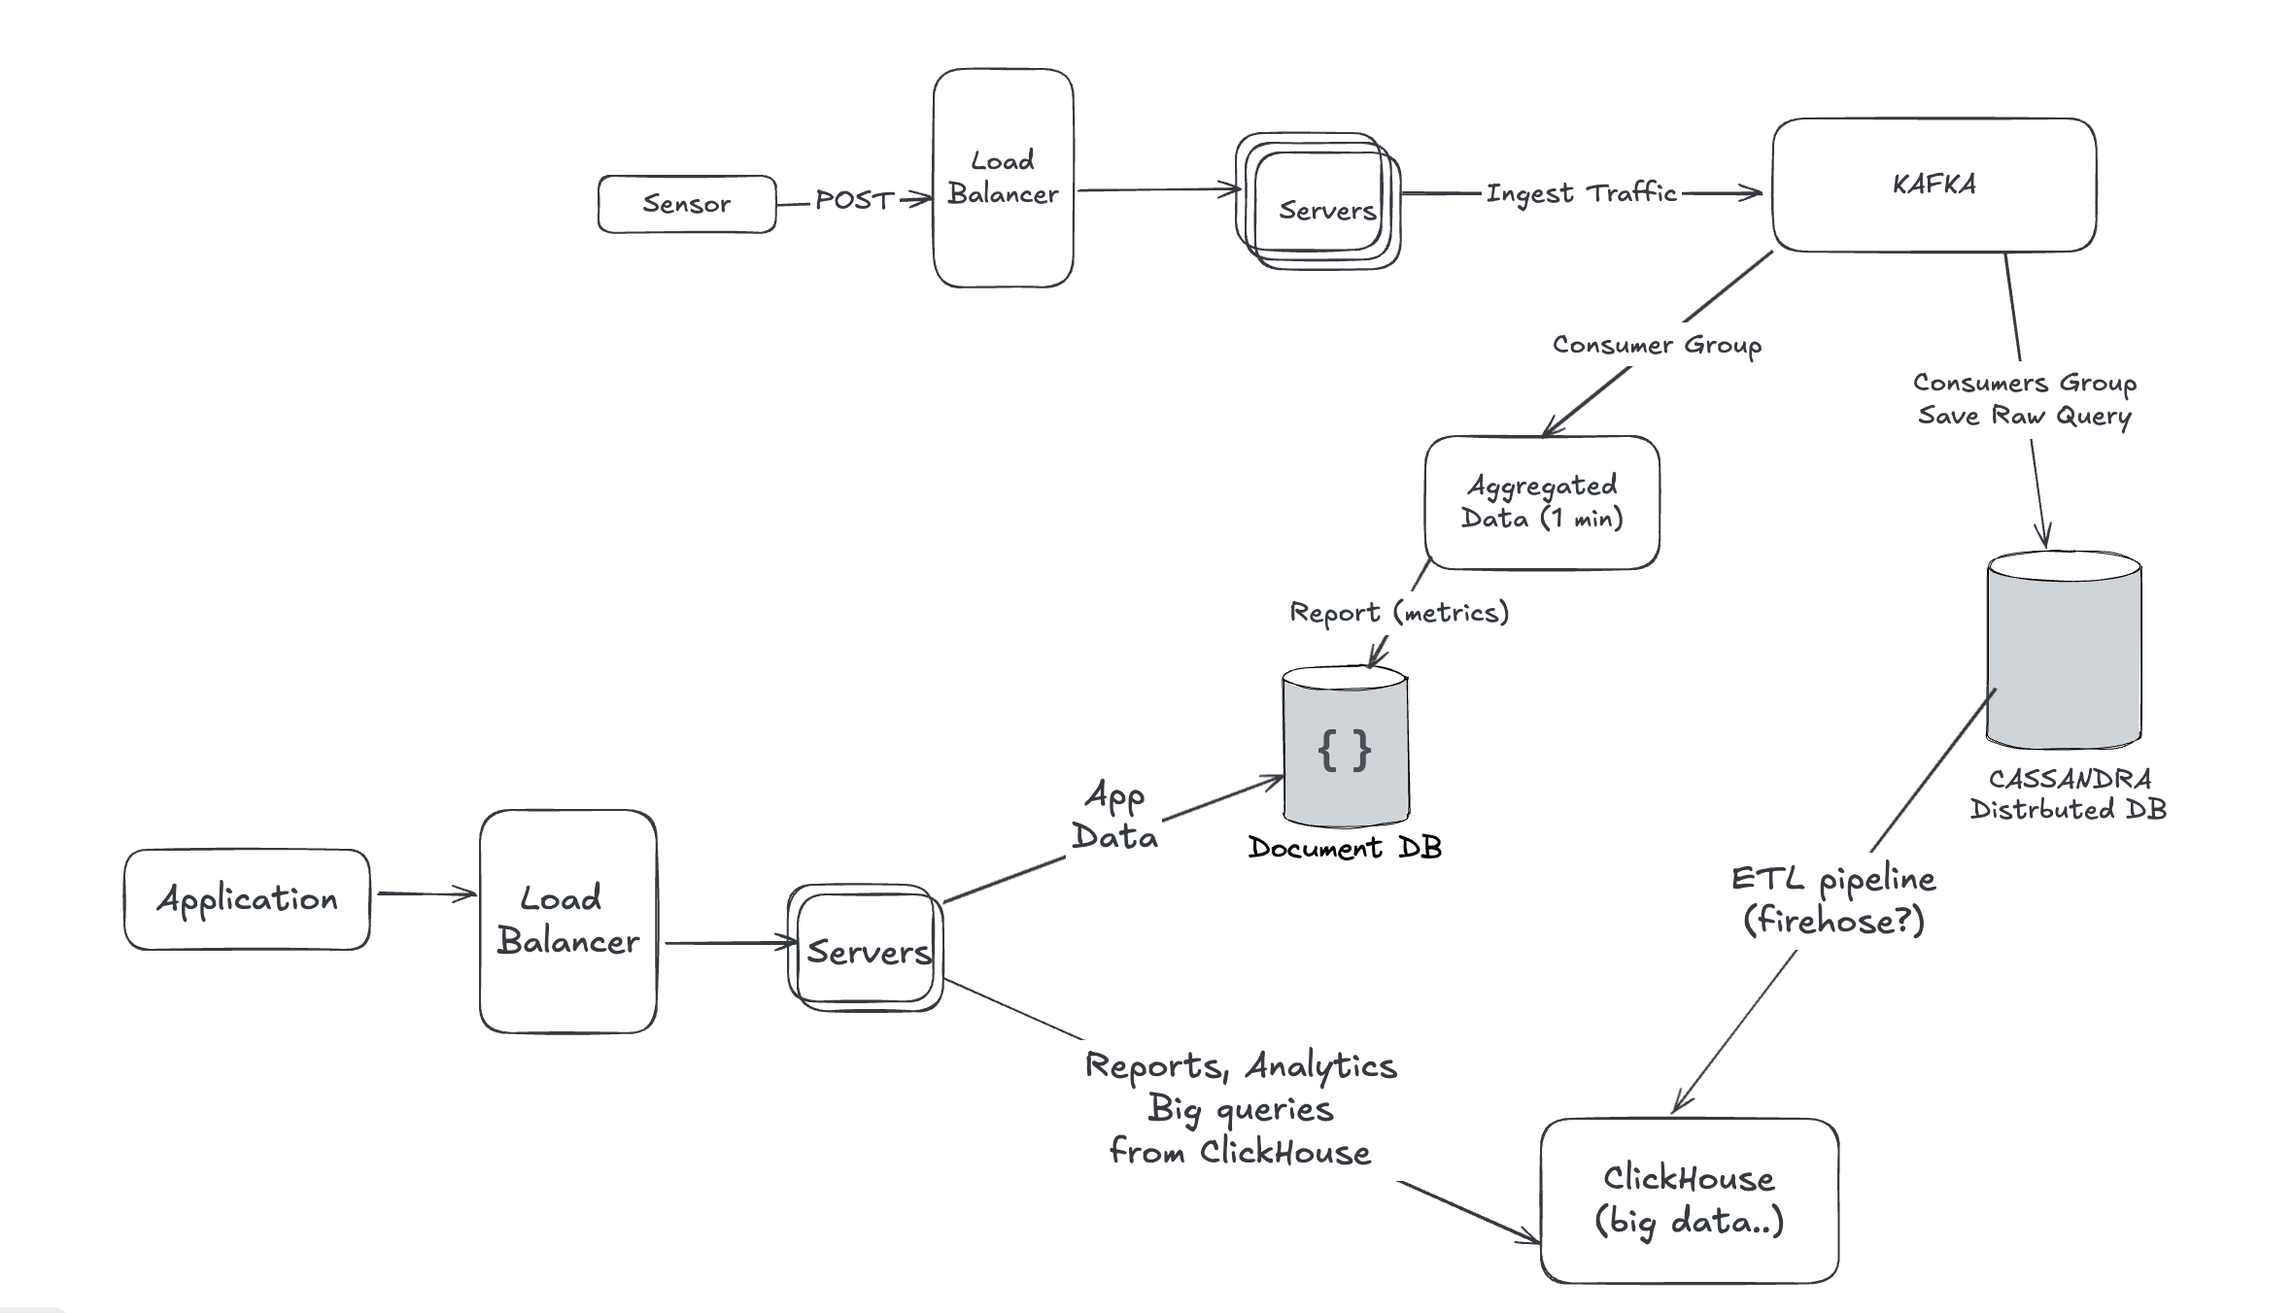
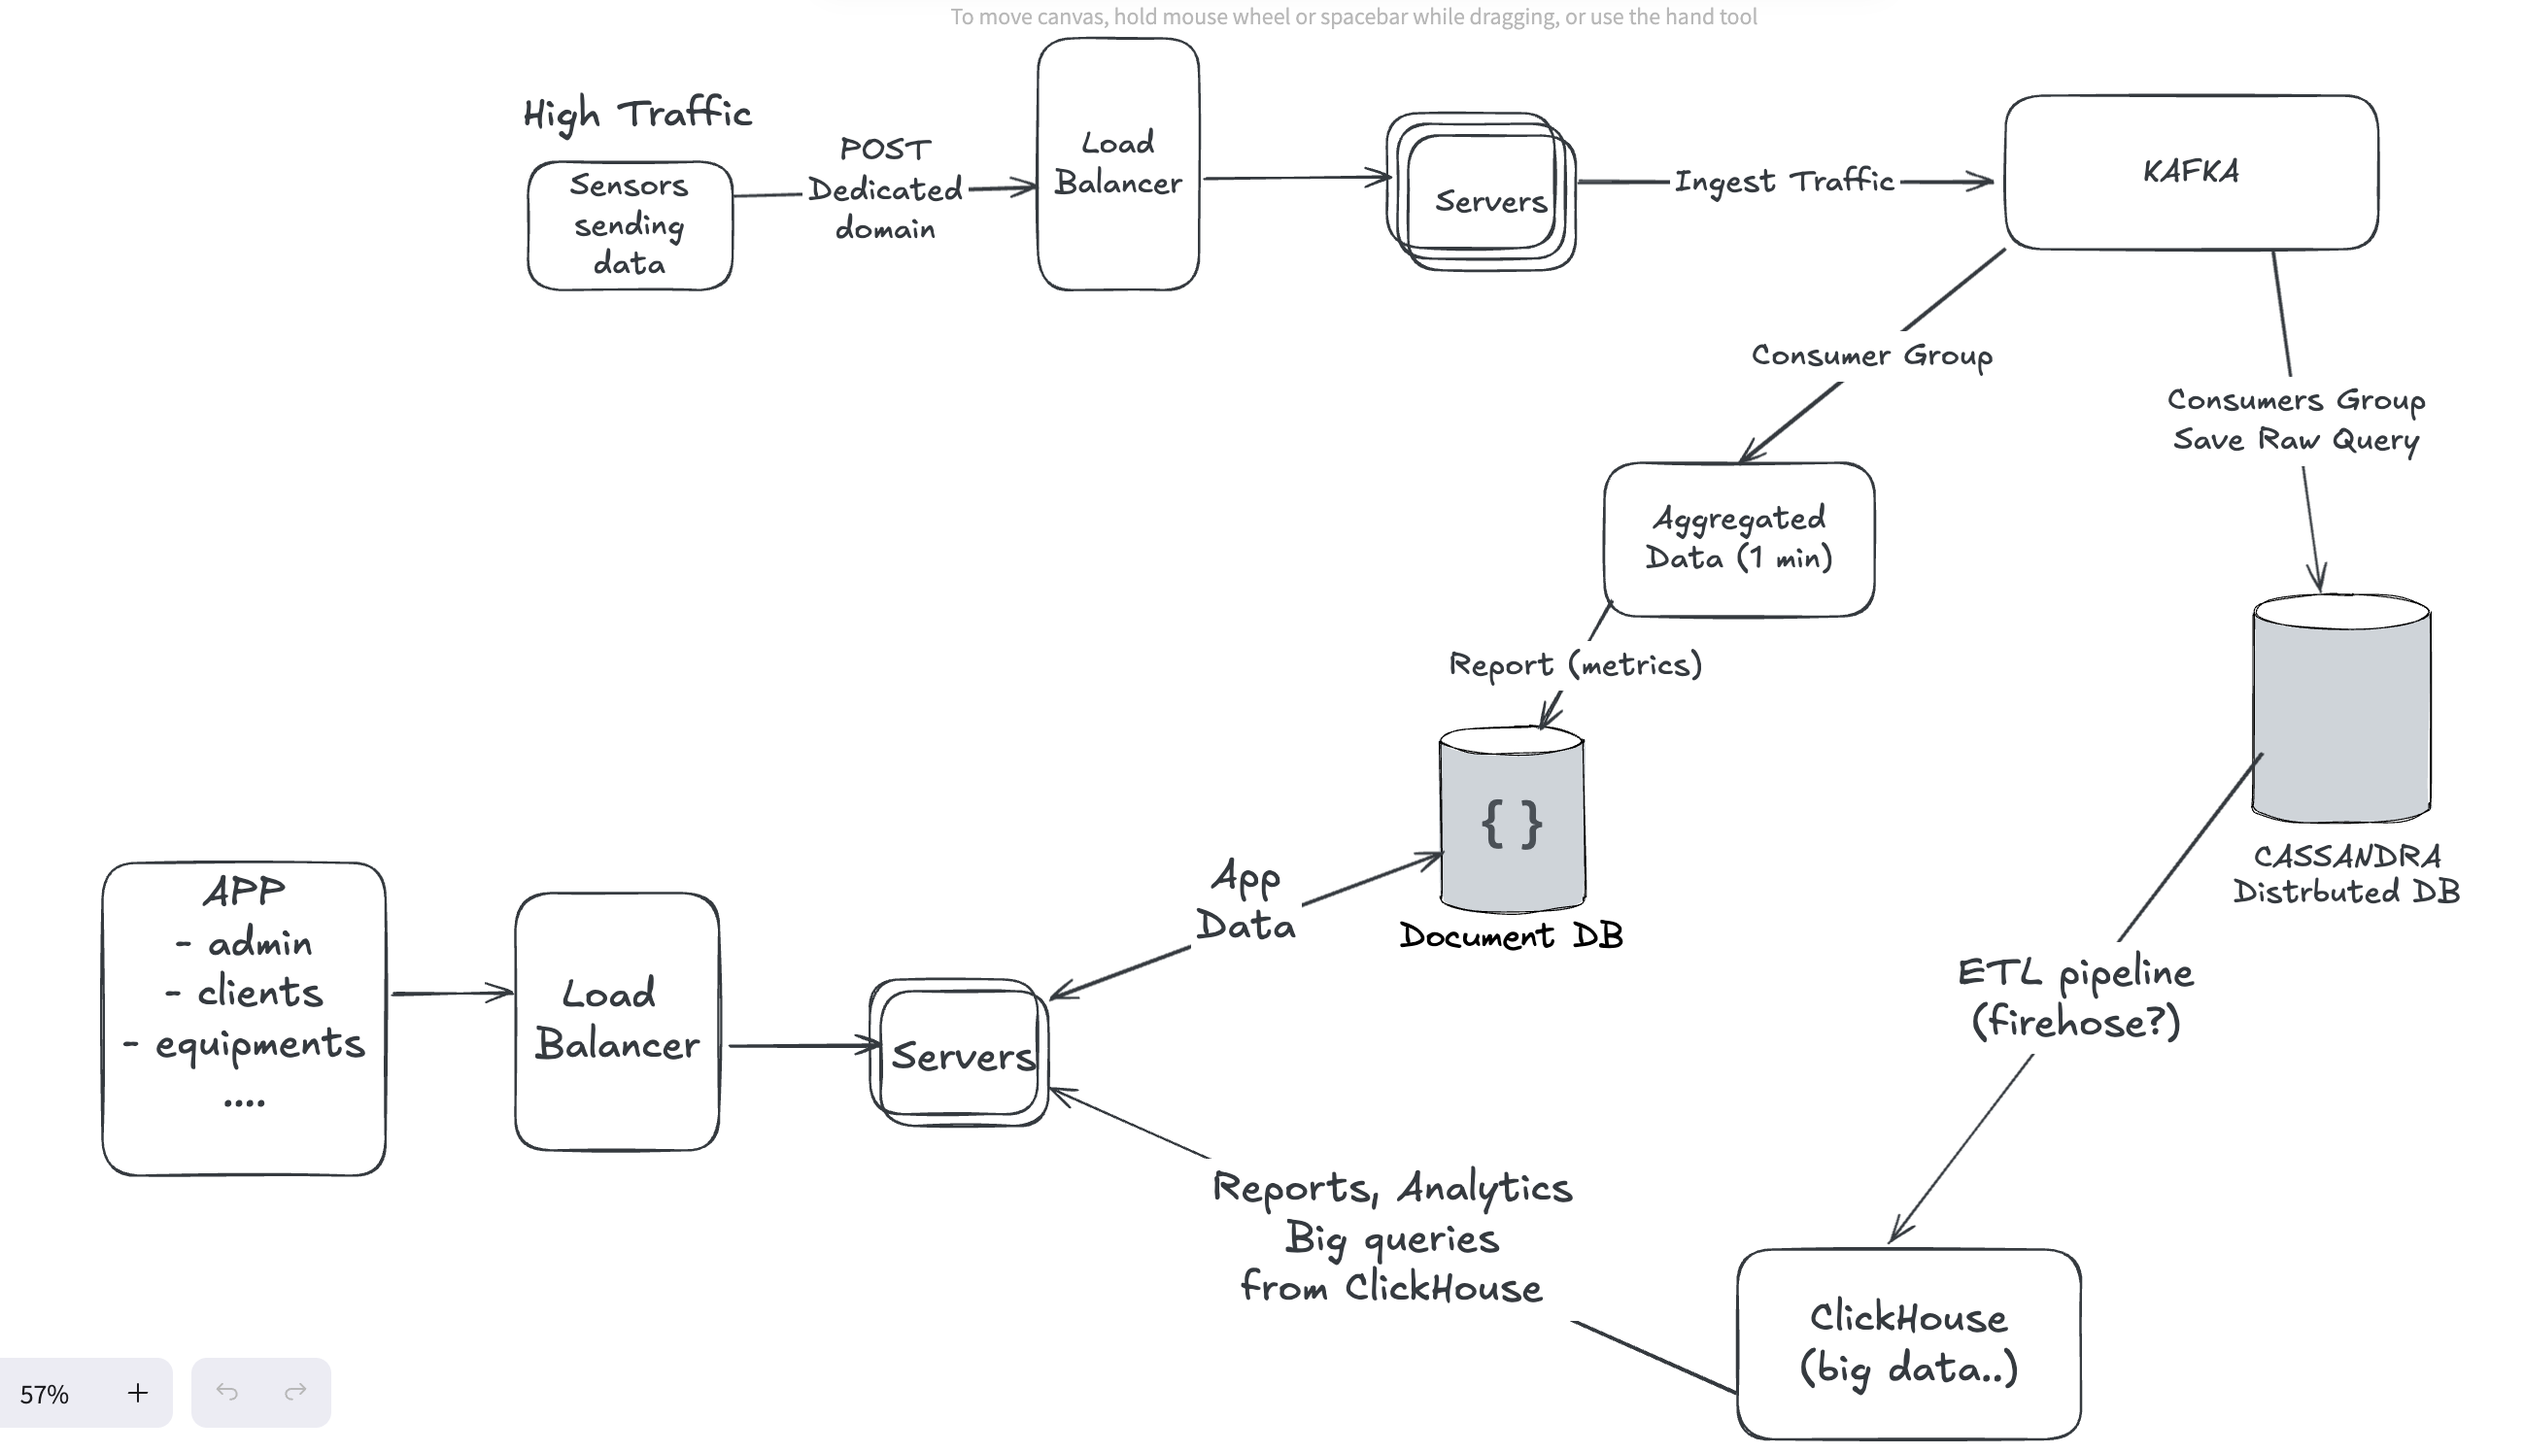
add clickhouse route to see data

diff --git a/src/etl-reports/cassandraToClickHouse.pipeline.ts b/src/etl-reports/cassandraToClickHouse.pipeline.ts
@@ -1,0 +1,113 @@
+import { client as cassandraClient, initCassandraSchema } from "../cassandra/cassandra";
+import { clickhouse } from "../clickhouse/clickhouse";
+
+function getTimeRange() {
+  const now = new Date();
+  const isZeroMinute = now.getMinutes() === 0;
+
+  const start = new Date(now);
+  start.setMinutes(0, 0, 0);
+
+  const end = new Date(now);
+  end.setMinutes(59, 59, 999);
+
+  if (isZeroMinute) {
+    start.setHours(start.getHours() - 1);
+    end.setHours(end.getHours() - 1);
+  }
+
+  return { start, end };
+}
+
+function formatClickhouseDate(date: Date): string {
+  return date.toISOString().replace("T", " ").split(".")[0]; // "2025-04-12 17:00:00"
+}
+
+function formatDate(date: Date): string {
+  return date.toISOString().split("T")[0]; // YYYY-MM-DD
+}
+
+function pad(num: number): string {
+  return num.toString().padStart(2, "0");
+}
+
+async function runETL() {
+  const { start, end } = getTimeRange();
+  console.log(`running from ${start} to ${end}`);
+  const query = `
+    SELECT sensor_id, equipment_id, value, timestamp
+    FROM sensor_readings
+    WHERE timestamp >= ? AND timestamp <= ?
+    ALLOW FILTERING
+  `;
+  await initCassandraSchema();
+  const result = await cassandraClient.execute(query, [start, end], {
+    prepare: true,
+  });
+
+  const readings = result.rows;
+  console.log(`found ${readings.length} in cassandra`);
+  const grouped = new Map<
+    string,
+    {
+      sensor_id: string;
+      equipment_id: string;
+      sensor_type: string;
+      values: number[];
+    }
+  >();
+
+  for (const row of readings) {
+    const key = `${row.sensor_id}-${row.equipment_id}-${row.sensor_type ?? 1}`;
+    const group = grouped.get(key) || {
+      sensor_id: row.sensor_id,
+      equipment_id: row.equipment_id,
+      sensor_type: "1",
+      values: [] as number[],
+    };
+    group.values.push(row.value);
+    grouped.set(key, group);
+  }
+
+  const stat_hour = pad(start.getHours());
+  const stat_date = formatDate(start);
+  const created_at = new Date();
+  console.log(stat_date);
+  console.log(stat_hour);
+  // return console.log(grouped);
+  const rows = Array.from(grouped.values()).map((group) => {
+    const min = Math.min(...group.values);
+    const max = Math.max(...group.values);
+    const avg = group.values.reduce((a, b) => a + b, 0) / group.values.length;
+
+    return {
+      sensor_id: group.sensor_id,
+      equipment_id: group.equipment_id,
+      sensor_type: group.sensor_type,
+      min,
+      max,
+      avg,
+      stat_date,
+      stat_hour,
+      created_at: formatClickhouseDate(new Date()), // <- formatted string!
+    };
+  });
+
+  if (rows.length === 0) {
+    console.log("No data to insert.");
+    return;
+  }
+
+  await clickhouse.insert({
+    table: "reports",
+    values: rows,
+    format: "JSONEachRow",
+  });
+
+  console.log(`ETL completed. Inserted ${rows.length} rows.`);
+}
+
+runETL().catch((err) => {
+  console.error("ETL failed:", err);
+  process.exit(1);
+});

diff --git a/src/app.ts b/src/app.ts
@@ -6,6 +6,7 @@ import { sensorRouter } from "./routes/sensor.routes";
 import { reportRouter } from "./routes/report.routes";
 import { initCassandraSchema, client } from "./cassandra/cassandra";
 import { ingestRouter } from "./routes/ingest.routes";
+import { clickhouse } from "./clickhouse/clickhouse";
 
 config();
 const app = express();
@@ -25,9 +26,29 @@ app.use("/api/equipment", equipmentRouter);
 app.use("/api/sensors", sensorRouter);
 app.use("/api/reports", reportRouter);
 app.use("/api/metrics", ingestRouter);
-app.use("/api/requests", async (_: Request, res: Response) => {
+
+// SEE CASSANDRA DATA
+app.get("/api/requests", async (_: Request, res: Response) => {
   const data = await client.execute(`SELECT * FROM sensor_readings`);
   res.json(data.rows);
+});
+
+// SEE CLICKHOUSE DATA
+app.use("/clickhouse", async (_: Request, res: Response) => {
+  try {
+    const resultSet = await clickhouse.query({
+      query: "SELECT * FROM reports ORDER BY stat_date DESC, stat_hour DESC LIMIT 100",
+      format: "JSONEachRow",
+    });
+
+    const data = await resultSet.json(); // or `.exec()` if you're using raw data
+    res.json(data);
+
+    // res.send(result.json());
+  } catch (err) {
+    console.error("ClickHouse query failed:", err);
+    res.status(500).json({ error: "Failed to fetch data from ClickHouse" });
+  }
 });
 
 const PORT = process.env.PORT || 3000;

diff --git a/src/cassandra/cassandra.ts b/src/cassandra/cassandra.ts
@@ -1,8 +1,8 @@
 import { Client } from "cassandra-driver";
 
 const client = new Client({
-  contactPoints: (process.env.CASSANDRA_CONTACT_POINTS || "localhost").split(","),
-  localDataCenter: process.env.CASSANDRA_DATACENTER || "datacenter1",
+  contactPoints: ["localhost"],
+  localDataCenter: "datacenter1",
   keyspace: "sensor_data",
 });
 
@@ -30,8 +30,11 @@ async function initCassandraSchema() {
     };
   `);
 
+  // Set the keyspace explicitly in the session
+  await client.execute(`USE sensor_data`);
+
   await client.execute(`
-    CREATE TABLE IF NOT EXISTS sensor_readings (
+    CREATE TABLE IF NOT EXISTS sensor_data.sensor_readings (
       equipment_id TEXT,
       sensor_id TEXT,
       timestamp TIMESTAMP,

diff --git a/src/clickhouse/clickhouse.ts b/src/clickhouse/clickhouse.ts
@@ -1,0 +1,8 @@
+import { createClient } from "@clickhouse/client";
+
+export const clickhouse = createClient({
+  url: "http://localhost:8123",
+  username: "default",
+  password: "secret",
+  database: "default",
+});
